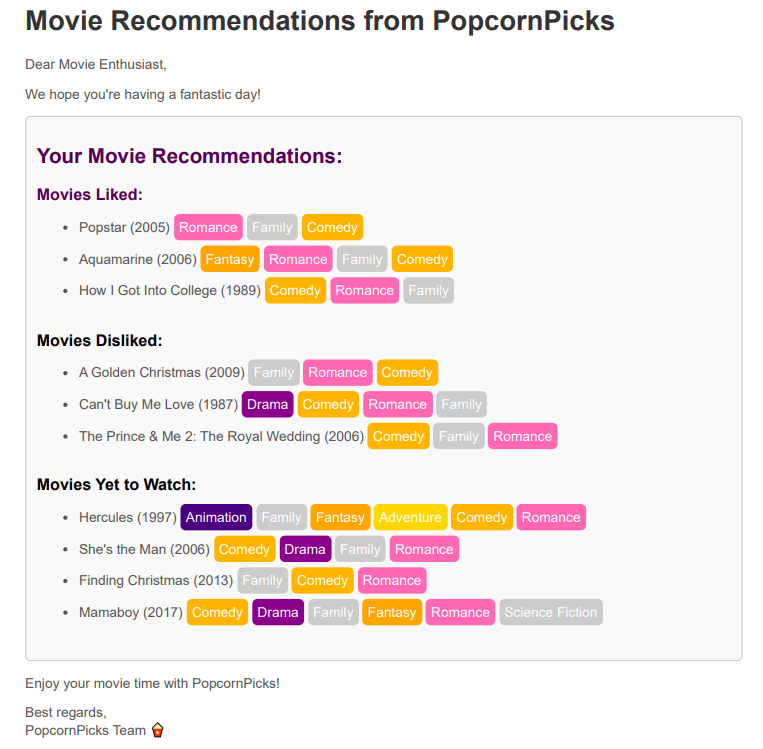
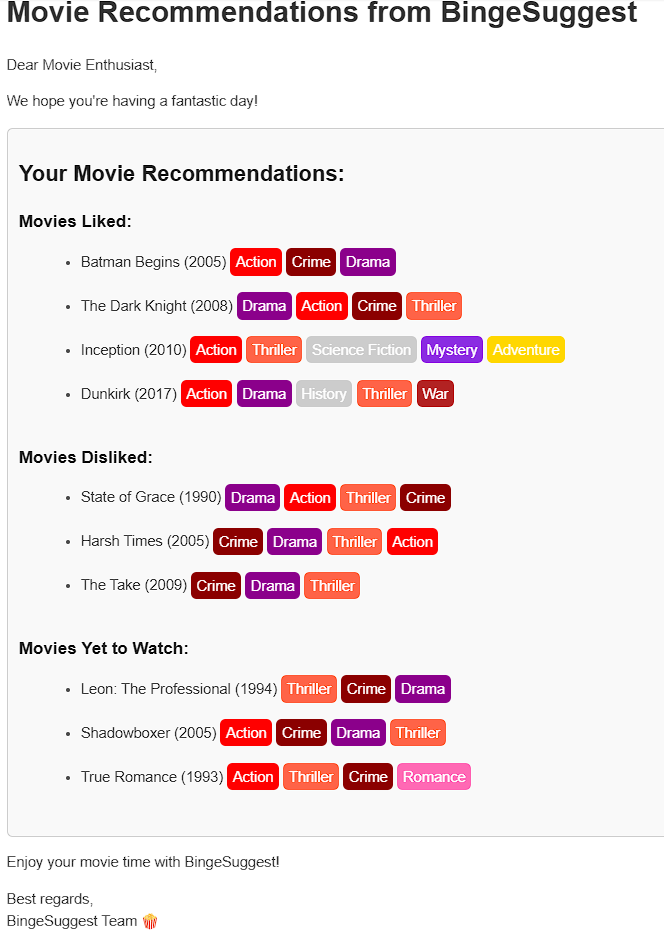
Updated README dependents

Changed region(s): [[0.0, 0.0, 0.9639, 0.8598], [0.0, 0.8905, 0.4217, 1.0]]

diff --git a/src/recommenderapp/utils.py b/src/recommenderapp/utils.py
@@ -109,7 +109,7 @@ def send_email_to_user(recipient_email, categorized_data):
                         <html>
                         <head></head>
                         <body>
-                            <h1 style="color: #333333;">Movie Recommendations from PopcornPicks</h1>
+                            <h1 style="color: #333333;">Movie Recommendations from BingeSuggest</h1>
                             <p style="color: #555555;">Dear Movie Enthusiast,</p>
                             <p style="color: #555555;">We hope you're having a fantastic day!</p>
                             <div style="padding: 10px; border: 1px solid #cccccc; border-radius: 5px; background-color: #f9f9f9;">
@@ -127,8 +127,8 @@ def send_email_to_user(recipient_email, categorized_data):
                                 {}
                             </ul>
                             </div>
-                            <p style="color: #555555;">Enjoy your movie time with PopcornPicks!</p>
-                            <p style="color: #555555;">Best regards,<br>PopcornPicks Team 🍿</p>
+                            <p style="color: #555555;">Enjoy your movie time with BingeSuggest!</p>
+                            <p style="color: #555555;">Best regards,<br>BingeSuggest Team 🍿</p>
                         </body>
                         </html>
                         """
@@ -141,7 +141,7 @@ def send_email_to_user(recipient_email, categorized_data):
 
     # Use an app password since 2-factor authentication is enabled
     sender_password = "peuehggqasvdbwmr"
-    subject = "Your movie recommendation from PopcornPicks"
+    subject = "Your movie recommendation from BingeSuggest"
 
     # Create the email message
     message = MIMEMultipart("alternative")
